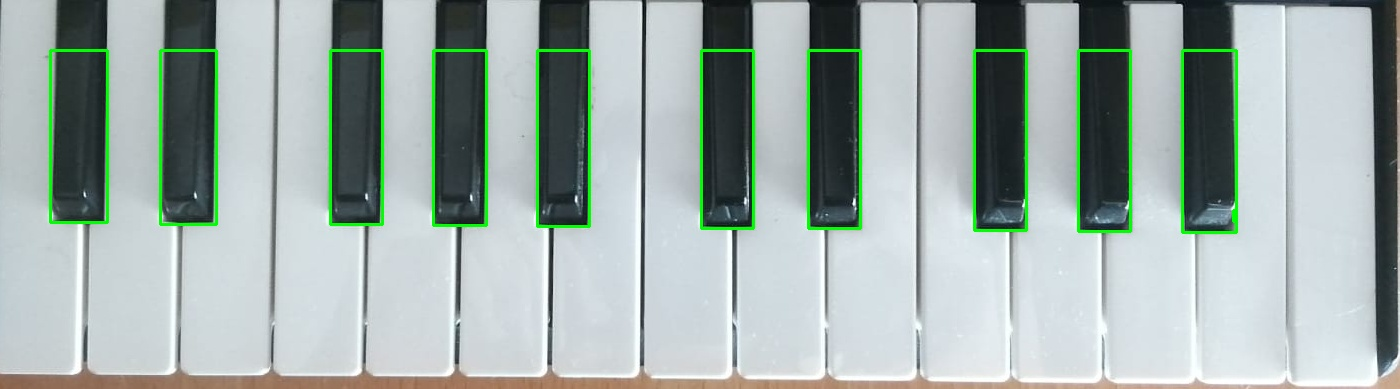
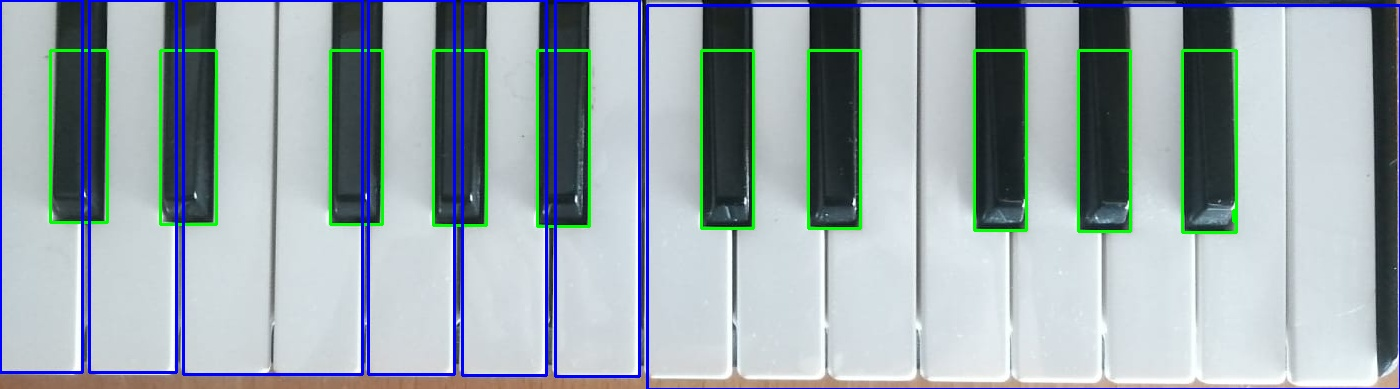
got some white keys

Changed region(s): [[0.0, 0.0, 1.0, 1.0]]

diff --git a/src/img_proc.py b/src/img_proc.py
@@ -39,8 +39,7 @@ class ImgProc:
     
     def find_keys(src_img_path, dest_img_path = 'img/results/keys.jpg'):
         img = cv2.imread(src_img_path)
-        # print(img.shape)
-        # print(len(img[0]))
+        gray = cv2.cvtColor(img, cv2.COLOR_BGR2GRAY)
         resize = img[50:len(img)-50]
         resize2 = []
 
@@ -51,23 +50,23 @@ class ImgProc:
 
         resize2 = np.array(resize2) 
 
-        cv2.imwrite('img/results/resize.jpg',resize2)
+        #cv2.imwrite('img/results/resize.jpg',resize2)
 
         #gray = cv2.cvtColor(img,cv2.COLOR_BGR2GRAY)
         #thresh = cv2.adaptiveThreshold(blur,255,cv2.ADAPTIVE_THRESH_MEAN_C,cv2.THRESH_BINARY,11,2)
         _,thresh = cv2.threshold(resize2,127,255,cv2.THRESH_BINARY)
-        cv2.imwrite('img/results/thresh.jpg',thresh)
+        #cv2.imwrite('img/results/thresh.jpg',thresh)
 
         kernel = np.ones((13, 13), np.uint8)
         opned = cv2.morphologyEx(thresh, cv2.MORPH_OPEN, kernel)
-        cv2.imwrite('img/results/open.jpg',opned)
+        #cv2.imwrite('img/results/open.jpg',opned)
 
         kernel = np.ones((7, 7), np.uint8)
         closed = cv2.morphologyEx(opned, cv2.MORPH_CLOSE, kernel)
-        cv2.imwrite('img/results/close.jpg',closed)
+        #cv2.imwrite('img/results/close.jpg',closed)
 
         edges = cv2.Canny(closed,50,150)
-        cv2.imwrite('img/results/canny.jpg',edges)
+        #cv2.imwrite('img/results/canny.jpg',edges)
 
         contours, _ = cv2.findContours(edges.copy(), cv2.RETR_EXTERNAL, cv2.CHAIN_APPROX_SIMPLE)
 
@@ -83,6 +82,18 @@ class ImgProc:
             
             # Draw the bounding box on the original image
             cv2.rectangle(img, (x, y), (x + w, y + h), (0, 255, 0), 2)
+
+        _,thresh2 = cv2.threshold(gray,150,255,cv2.THRESH_BINARY)
+        cv2.imwrite('img/results/thresh.jpg',thresh2)
+        dilation = cv2.erode(thresh2,kernel,iterations = 1)
+        cv2.imwrite('img/results/open.jpg',dilation)
+        contours, _ = cv2.findContours(dilation, cv2.RETR_EXTERNAL, cv2.CHAIN_APPROX_SIMPLE)
+        min_contour_area = 0  # adjust as needed
+        valid_contours = [contour for contour in contours if cv2.contourArea(contour) > min_contour_area]
+
+        for contour in valid_contours:
+            x, y, w, h = cv2.boundingRect(contour)
+            cv2.rectangle(img, (x, y), (x + w, y + h), (255, 0, 0), 2)
         
         cv2.imwrite(dest_img_path,img)
         
@@ -115,6 +126,8 @@ class ImgProc:
         cv2.imwrite(dest_img_path, cropped_image)
 
         return cropped_image
-    
+
+
+
         
        
